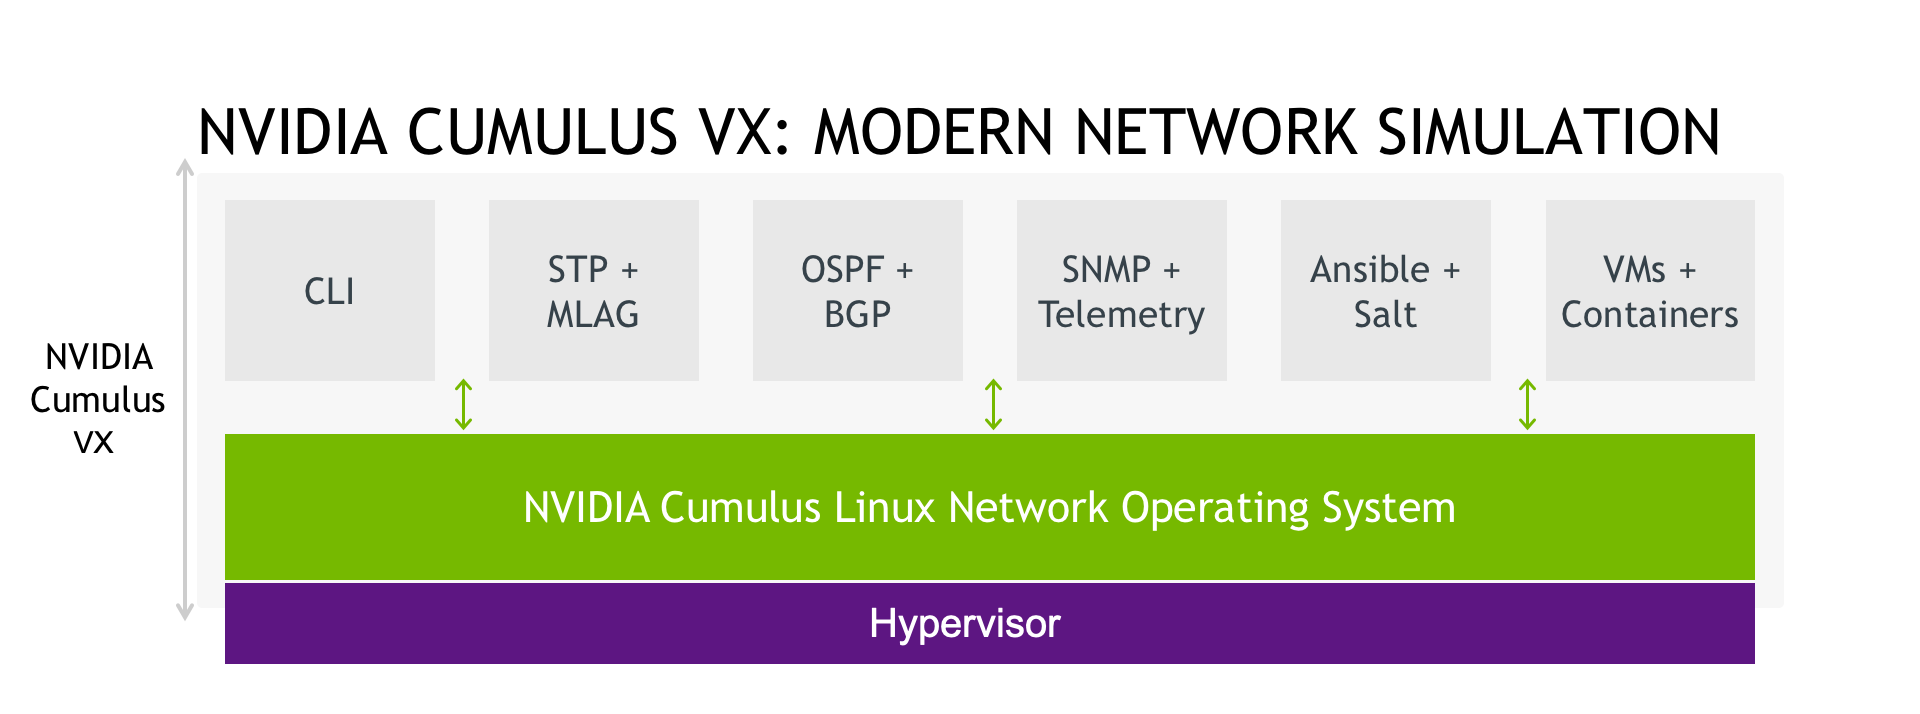
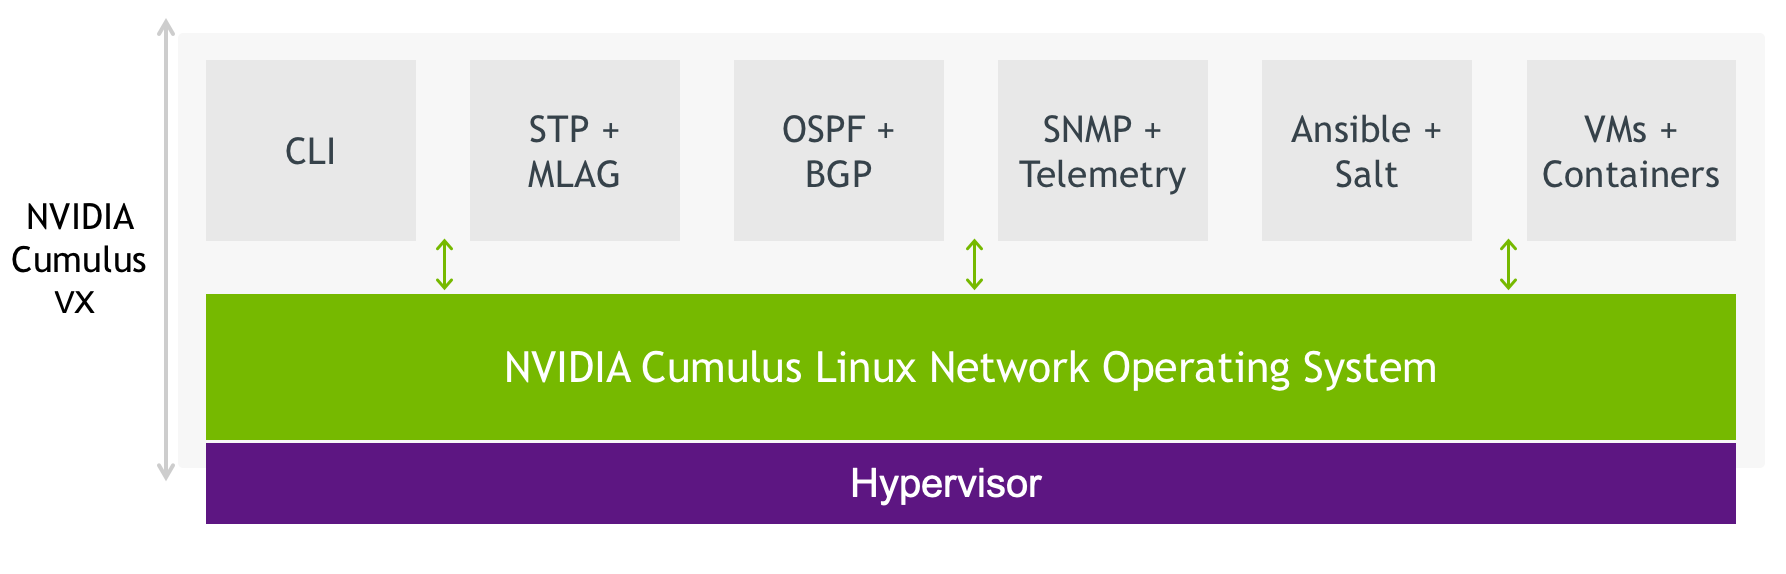
added graphics in overview

diff --git a/content/cumulus-vx/Overview.md b/content/cumulus-vx/Overview.md
@@ -43,7 +43,11 @@ Cumulus VX is not a production-ready virtual switch or router. It has the same f
 
 You can use tools like `jdoo` to monitor the virtual switch. The same automation, zero touch provisioning, security, and QoS tools are available.
 
-The following table outlines the similarities and differences between Cumulus VX and Cumulus Linux:
+The following illustration and table outline the similarities and differences between Cumulus VX and Cumulus Linux:
+
+| Cumulus VX | Cumulus Linux |
+| -----------| ------------- |
+| {{< img src="/images/cumulus-vx/cumulus-vx.png" width="450" >}}| {{< img src="/images/cumulus-vx/cumulus-linux.png" width="450" >}}|
 
 | Feature or Functionality | Cumulus VX |
 | ------------------------ | -------------------------------- |
